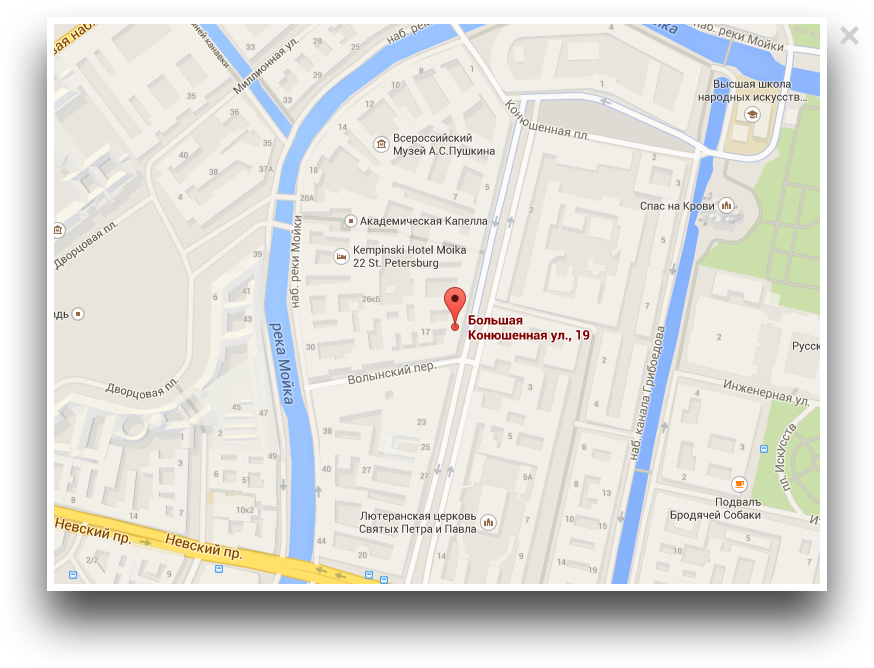
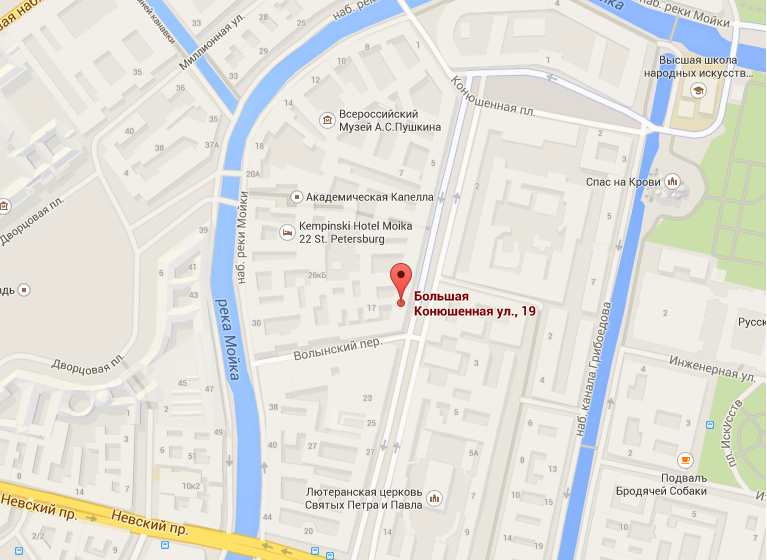
modal map finish

diff --git a/sass/_index.sass b/sass/_index.sass
@@ -618,9 +618,10 @@ footer .container
     background-position: 0 0
     background-repeat: repeat
     box-shadow: 0 30px 50px rgba(0, 0, 0, 0.7)
-.modal input
+
    
 .modal-login
+    display: none
     top: 50%
     left: 50%
     transform: translate(-50%, -50%)
@@ -739,3 +740,28 @@ footer .container
     transform: rotate(45deg)
 .login-checkbox input[type="checkbox"]:checked + .checkbox-indicator::after
     transform: rotate(-45deg)
+.restore
+    color: #000000
+    text-decoration: underline
+.restore:hover,
+.restore:focus
+    text-decoration: none
+    
+.login-form .button
+    width: 100%
+    
+.modal-map
+    display: none
+    top: 50%
+    left: 50%
+    
+    width: 767px
+    height: 565px
+    transform: translate(-50%, -50%)
+    border: 7px solid white
+    & p
+        margin: 0
+    
+    
+
+    

diff --git a/css/style.css b/css/style.css
@@ -581,6 +581,7 @@ footer .container {
   box-shadow: 0 30px 50px rgba(0, 0, 0, 0.7); }
 
 .modal-login {
+  display: none;
   top: 50%;
   left: 50%;
   -webkit-transform: translate(-50%, -50%);
@@ -705,3 +706,26 @@ footer .container {
 .login-checkbox input[type="checkbox"]:checked + .checkbox-indicator::after {
   -webkit-transform: rotate(-45deg);
   transform: rotate(-45deg); }
+
+.restore {
+  color: #000000;
+  text-decoration: underline; }
+
+.restore:hover,
+.restore:focus {
+  text-decoration: none; }
+
+.login-form .button {
+  width: 100%; }
+
+.modal-map {
+  display: none;
+  top: 50%;
+  left: 50%;
+  width: 767px;
+  height: 565px;
+  -webkit-transform: translate(-50%, -50%);
+  transform: translate(-50%, -50%);
+  border: 7px solid white; }
+  .modal-map p {
+    margin: 0; }

diff --git a/index.html b/index.html
@@ -253,10 +253,10 @@ Telefons: +371 2778811</p>
    
    <!-- MODAL MAP -->
    
-   <section class="modal1 modal-map">
+   <section class="modal modal-map">
        <h2 class="visually-hidden">Kā mūs atrast?</h2>
        <p>
-           <img src="img/map.png" alt="Latvija,Riga" width="780" height="560">
+           <img src="img/map.png" alt="Latvija,Riga" width="767" height="585">
        </p>
        <button class="modal-close" type="button">Aizvert</button>
    </section>
